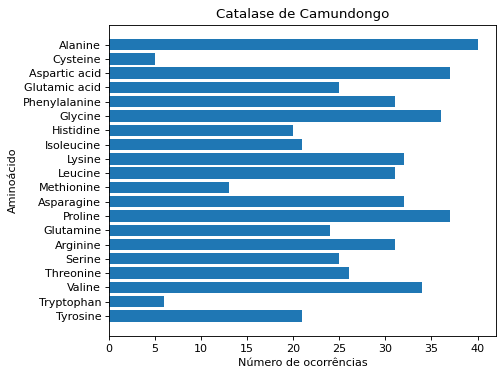
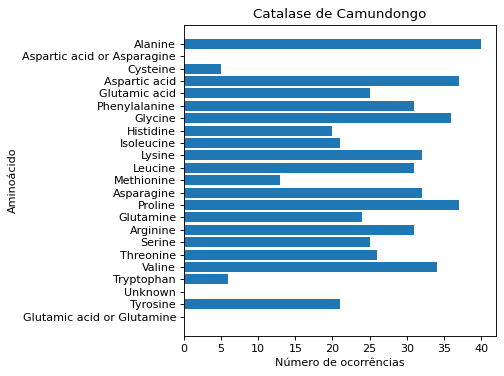
090620 02:26 Passo 3 pronto

diff --git a/Graficos.py b/Graficos.py
@@ -21,10 +21,10 @@ def simples(o,aa,num):
   #plt.show()
 
   fig.savefig('Passo 3/Catalase de '+o+'.png', transparent=False, dpi=80, bbox_inches="tight")
+  plt.close('all')
 
 def agrupado(aa,num):
   import matplotlib.pyplot as plt
-  import matplotlib.patches as mpatches
   import numpy
 
   # data
@@ -33,27 +33,25 @@ def agrupado(aa,num):
 
   #plot data
   #use zorder to put bars in front of grid
-  bar_width=0.15
+  bar_width=0.2
   i=0
   colors=['green','red','orange','blue']
   for o in organismos:
-    plt.bar(x + bar_width*i, num[o], width=bar_width, color=colors[i], zorder=2)
+    plt.bar(x - bar_width*i, num[o], width=bar_width, color=colors[i],label=o)
     i=i+1
 
   #labels
   #adjust x until it is centered
-  plt.xticks(x + bar_width*2, aa)
+  plt.xticks(x, aa)
   plt.title('Catalase de 4 organismos')
   plt.xlabel('Aminoácido')
   plt.ylabel('Número de ocorrências')
 
   #legend
-  green_patch = mpatches.Patch(color='green', label=organismos[0])
-  red_patch=mpatches.Patch(color='red', label=organismos[1])
-  orange_patch = mpatches.Patch(color='orange', label=organismos[2])
-  blue_patch = mpatches.Patch(color='blue', label=organismos[3])
-  plt.legend(handles=[green_patch, red_patch,orange_patch, blue_patch],loc='upper center', bbox_to_anchor=(0.5, -0.05),fancybox=True, shadow=True, ncol=5)
+  plt.legend(loc='upper center', bbox_to_anchor=(0.5, -0.1),
+          ncol=4, fancybox=True)
 
   #grid
   plt.grid(axis='y')
   plt.savefig('Passo 3/Catalase de 4 organismos.png', transparent=False, dpi=80, bbox_inches="tight")
+  plt.close('all')

diff --git a/main.py b/main.py
@@ -20,26 +20,27 @@ with open('Passo 3/Catalase-aminoacidos.txt','w') as l:
   organismos2=dict()
   for o in organismos:
     l.write(o.upper())
-    l.write('\n%20s|%18s|%21s|%23s'%('Código do aminoácido','Nome do aminoácido','Número de ocorrências','Posições de ocorrências'))
+    l.write('\n%20s|%27s|%21s|%23s'%('Código do aminoácido','Nome do aminoácido','Número de ocorrências','Posições de ocorrências'))
     aa3=[]
     aa2=[]
     num=[]
-    lista=''
     códigos=[]
     for a in aa:
+      lista=''
+      #if dna[o].count(a)>0:
+      aa2.append(aa[a])
+      num.append(dna[o].count(a))
       if dna[o].count(a)>0:
-        aa2.append(aa[a])
-        num.append(dna[o].count(a))
         for b in re.finditer(a,dna[o]):
           if lista=='':
             lista=str(b.start())
           else:
             lista=lista+','+str(b.start())
-        l.write('\n%20s|%18s|%21s|%23s'%(a,aa[a],dna[o].count(a),lista))
-      if completo.count(a)>0:
-        códigos.append(a)
-        aa3.append(dna[o].count(a))
-    #Graficos.simples(o,aa2,num)
+      l.write('\n%20s|%27s|%21s|%23s'%(a,aa[a],dna[o].count(a),lista))
+      #if completo.count(a)>0:
+      códigos.append(a)
+      aa3.append(dna[o].count(a))
+    Graficos.simples(o,aa2,num)
     organismos2[o]=aa3
     l.write('\n\n')
 Graficos.agrupado(códigos,organismos2)
